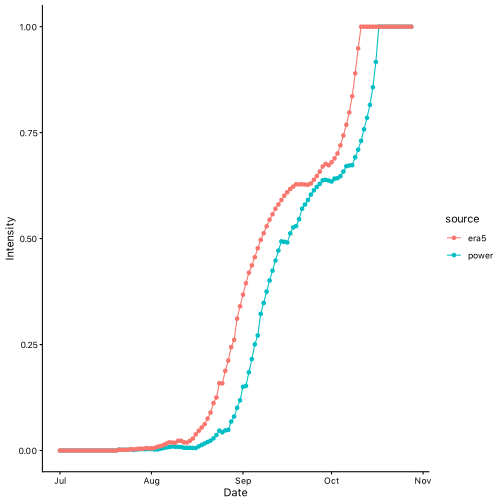
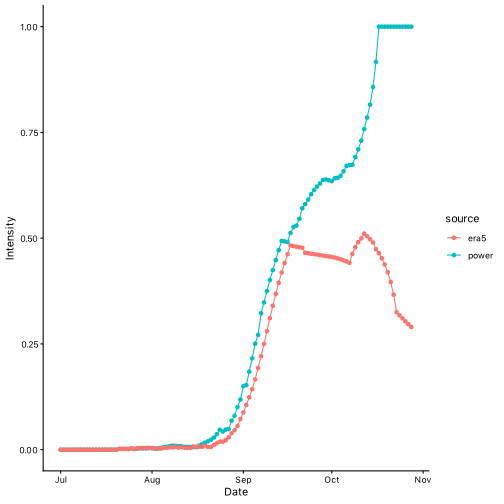
feat: add Open-Meteo citation to README

diff --git a/README.md b/README.md
@@ -68,61 +68,74 @@ names(wth) <- sources
 wth
 #> $power
 #> Key: <YYYYMMDD>
-#>        YYYYMMDD   DOY  TEMP  TMIN  TMAX  RHUM  RAIN     LAT
-#>          <IDat> <int> <num> <num> <num> <num> <num>   <num>
-#>   1: 2000-07-01   183 25.29 23.86 27.78 92.20 23.12 14.6774
-#>   2: 2000-07-02   184 26.13 23.54 29.90 86.01 17.34 14.6774
-#>   3: 2000-07-03   185 25.50 24.28 27.23 94.16 29.08 14.6774
-#>   4: 2000-07-04   186 25.81 24.50 27.56 92.42 13.01 14.6774
-#>   5: 2000-07-05   187 25.97 25.13 27.40 92.34 32.20 14.6774
-#>  ---                                                       
-#> 116: 2000-10-24   298 25.81 23.54 29.72 87.65  2.76 14.6774
-#> 117: 2000-10-25   299 25.82 23.44 29.54 89.76 12.04 14.6774
-#> 118: 2000-10-26   300 25.44 24.14 26.99 94.93 13.03 14.6774
-#> 119: 2000-10-27   301 25.74 24.54 27.69 91.43 11.54 14.6774
-#> 120: 2000-10-28   302 25.44 24.72 26.62 91.90 74.20 14.6774
-#>           LON
-#>         <num>
-#>   1: 121.2556
-#>   2: 121.2556
-#>   3: 121.2556
-#>   4: 121.2556
-#>   5: 121.2556
-#>  ---         
-#> 116: 121.2556
-#> 117: 121.2556
-#> 118: 121.2556
-#> 119: 121.2556
-#> 120: 121.2556
+#>        YYYYMMDD   DOY  TEMP  TMIN  TMAX
+#>          <IDat> <int> <num> <num> <num>
+#>   1: 2000-07-01   183 25.29 23.86 27.78
+#>   2: 2000-07-02   184 26.13 23.54 29.90
+#>   3: 2000-07-03   185 25.50 24.28 27.23
+#>   4: 2000-07-04   186 25.81 24.50 27.56
+#>   5: 2000-07-05   187 25.97 25.13 27.40
+#>  ---                                   
+#> 116: 2000-10-24   298 25.81 23.54 29.72
+#> 117: 2000-10-25   299 25.82 23.44 29.54
+#> 118: 2000-10-26   300 25.44 24.14 26.99
+#> 119: 2000-10-27   301 25.74 24.54 27.69
+#> 120: 2000-10-28   302 25.44 24.72 26.62
+#>       RHUM  RAIN     LAT      LON
+#>      <num> <num>   <num>    <num>
+#>   1: 92.20 23.12 14.6774 121.2556
+#>   2: 86.01 17.34 14.6774 121.2556
+#>   3: 94.16 29.08 14.6774 121.2556
+#>   4: 92.42 13.01 14.6774 121.2556
+#>   5: 92.34 32.20 14.6774 121.2556
+#>  ---                             
+#> 116: 87.65  2.76 14.6774 121.2556
+#> 117: 89.76 12.04 14.6774 121.2556
+#> 118: 94.93 13.03 14.6774 121.2556
+#> 119: 91.43 11.54 14.6774 121.2556
+#> 120: 91.90 74.20 14.6774 121.2556
 #> 
 #> $era5
 #> Key: <YYYYMMDD>
-#>        YYYYMMDD   DOY     TEMP  TMIN  TMAX     RHUM  RAIN   LAT
-#>          <IDat> <int>    <num> <num> <num>    <num> <num> <num>
-#>   1: 2000-07-01   183 25.43750  23.3  29.0 91.95833  28.8 14.75
-#>   2: 2000-07-02   184 24.85000  21.9  28.0 92.45833  27.9 14.75
-#>   3: 2000-07-03   185 23.87083  23.1  25.6 94.91667  43.3 14.75
-#>   4: 2000-07-04   186 23.41250  22.9  24.0 97.29167  96.0 14.75
-#>   5: 2000-07-05   187 24.05833  23.3  24.9 97.04167  86.9 14.75
-#>  ---                                                           
-#> 116: 2000-10-24   298 26.96667  23.3  30.8 82.62500   0.1 14.75
-#> 117: 2000-10-25   299 26.63750  23.1  30.9 83.45833   1.0 14.75
-#> 118: 2000-10-26   300 26.04583  23.8  28.6 86.62500   5.7 14.75
-#> 119: 2000-10-27   301 26.26250  23.9  28.6 87.37500   2.8 14.75
-#> 120: 2000-10-28   302 24.11250  23.2  25.1 93.95833 162.6 14.75
-#>         LON
-#>       <num>
-#>   1: 121.25
-#>   2: 121.25
-#>   3: 121.25
-#>   4: 121.25
-#>   5: 121.25
-#>  ---       
-#> 116: 121.25
-#> 117: 121.25
-#> 118: 121.25
-#> 119: 121.25
-#> 120: 121.25
+#>        YYYYMMDD   DOY     TEMP  TMIN
+#>          <IDat> <int>    <num> <num>
+#>   1: 2000-07-01   183 24.70417  23.2
+#>   2: 2000-07-02   184 24.18333  23.2
+#>   3: 2000-07-03   185 23.72917  22.9
+#>   4: 2000-07-04   186 23.19167  22.8
+#>   5: 2000-07-05   187 23.65833  23.1
+#>  ---                                
+#> 116: 2000-10-24   298 25.76250  23.2
+#> 117: 2000-10-25   299 25.58333  22.9
+#> 118: 2000-10-26   300 25.20000  23.8
+#> 119: 2000-10-27   301 25.27083  23.9
+#> 120: 2000-10-28   302 23.87917  23.2
+#>       TMAX     RHUM  RAIN      LAT
+#>      <num>    <num> <num>    <num>
+#>   1:  27.9 89.25408     0 14.70001
+#>   2:  26.5 90.92118     0 14.70001
+#>   3:  25.8 93.22057     0 14.70001
+#>   4:  23.5 96.14362     0 14.70001
+#>   5:  24.6 95.83372     0 14.70001
+#>  ---                              
+#> 116:  29.2 83.49022     0 14.70001
+#> 117:  29.2 82.53308     0 14.70001
+#> 118:  27.9 85.57829     0 14.70001
+#> 119:  27.2 85.04539     0 14.70001
+#> 120:  24.4 91.54700     0 14.70001
+#>        LON
+#>      <num>
+#>   1: 121.2
+#>   2: 121.2
+#>   3: 121.2
+#>   4: 121.2
+#>   5: 121.2
+#>  ---      
+#> 116: 121.2
+#> 117: 121.2
+#> 118: 121.2
+#> 119: 121.2
+#> 120: 121.2
 ```
 
 ## Modelling bacterial blight disease intensity
@@ -135,86 +148,138 @@ bb_sim <- lapply(X = wth, FUN = bacterial_blight, emergence = "2000-07-01")
 
 bb_sim
 #> $power
-#>      simday      dates    sites latent infectious  removed
-#>       <int>     <IDat>    <num>  <num>      <num>    <num>
-#>   1:      1 2000-07-01 100.0000      0     0.0000    0.000
-#>   2:      2 2000-07-02 108.6875      0     0.0000    0.000
-#>   3:      3 2000-07-03 118.1002      0     0.0000    0.000
-#>   4:      4 2000-07-04 128.2934      0     0.0000    0.000
-#>   5:      5 2000-07-05 139.3254      0     0.0000    0.000
-#>  ---                                                      
-#> 116:    116 2000-10-24   0.0000      0   396.0528 1404.565
-#> 117:    117 2000-10-25   0.0000      0   356.3610 1444.257
-#> 118:    118 2000-10-26   0.0000      0   309.2779 1491.340
-#> 119:    119 2000-10-27   0.0000      0   266.3860 1534.232
-#> 120:    120 2000-10-28   0.0000      0   229.5445 1571.073
-#>         senesced rateinf  rlex rtransfer rremoved  rgrowth
-#>            <num>   <num> <num>     <num>    <num>    <num>
-#>   1:    1.000000       0     0         0  0.00000  9.68750
-#>   2:    2.086875       0     0         0  0.00000 10.49959
-#>   3:    3.267877       0     0         0  0.00000 11.37416
-#>   4:    4.550811       0     0         0  0.00000 12.31499
-#>   5:    5.944065       0     0         0  0.00000 13.32593
-#>  ---                                                      
-#> 116: 2665.037553       0     0         0 43.67864  0.00000
-#> 117: 2712.120592       0     0         0 39.69181  0.00000
-#> 118: 2755.012575       0     0         0 47.08304  0.00000
-#> 119: 2791.854071       0     0         0 42.89198  0.00000
-#> 120: 2824.358958       0     0         0 36.84150  0.00000
-#>      rsenesced diseased intensity     lat      lon
-#>          <num>    <num>     <num>   <num>    <num>
-#>   1:  1.000000    0.000         0 14.6774 121.2556
-#>   2:  1.086875    0.000         0 14.6774 121.2556
-#>   3:  1.181002    0.000         0 14.6774 121.2556
-#>   4:  1.282934    0.000         0 14.6774 121.2556
-#>   5:  1.393254    0.000         0 14.6774 121.2556
-#>  ---                                              
-#> 116: 39.691810 1800.618         1 14.6774 121.2556
-#> 117: 47.083039 1800.618         1 14.6774 121.2556
-#> 118: 42.891982 1800.618         1 14.6774 121.2556
-#> 119: 36.841497 1800.618         1 14.6774 121.2556
-#> 120: 32.504887 1800.618         1 14.6774 121.2556
+#>      simday      dates    sites latent
+#>       <int>     <IDat>    <num>  <num>
+#>   1:      1 2000-07-01 100.0000      0
+#>   2:      2 2000-07-02 108.6875      0
+#>   3:      3 2000-07-03 118.1002      0
+#>   4:      4 2000-07-04 128.2934      0
+#>   5:      5 2000-07-05 139.3254      0
+#>  ---                                  
+#> 116:    116 2000-10-24   0.0000      0
+#> 117:    117 2000-10-25   0.0000      0
+#> 118:    118 2000-10-26   0.0000      0
+#> 119:    119 2000-10-27   0.0000      0
+#> 120:    120 2000-10-28   0.0000      0
+#>      infectious  removed    senesced
+#>           <num>    <num>       <num>
+#>   1:     0.0000    0.000    1.000000
+#>   2:     0.0000    0.000    2.086875
+#>   3:     0.0000    0.000    3.267877
+#>   4:     0.0000    0.000    4.550811
+#>   5:     0.0000    0.000    5.944065
+#>  ---                                
+#> 116:   396.0528 1404.565 2665.037553
+#> 117:   356.3610 1444.257 2712.120592
+#> 118:   309.2779 1491.340 2755.012575
+#> 119:   266.3860 1534.232 2791.854071
+#> 120:   229.5445 1571.073 2824.358958
+#>      rateinf  rlex rtransfer rremoved
+#>        <num> <num>     <num>    <num>
+#>   1:       0     0         0  0.00000
+#>   2:       0     0         0  0.00000
+#>   3:       0     0         0  0.00000
+#>   4:       0     0         0  0.00000
+#>   5:       0     0         0  0.00000
+#>  ---                                 
+#> 116:       0     0         0 43.67864
+#> 117:       0     0         0 39.69181
+#> 118:       0     0         0 47.08304
+#> 119:       0     0         0 42.89198
+#> 120:       0     0         0 36.84150
+#>       rgrowth rsenesced diseased
+#>         <num>     <num>    <num>
+#>   1:  9.68750  1.000000    0.000
+#>   2: 10.49959  1.086875    0.000
+#>   3: 11.37416  1.181002    0.000
+#>   4: 12.31499  1.282934    0.000
+#>   5: 13.32593  1.393254    0.000
+#>  ---                            
+#> 116:  0.00000 39.691810 1800.618
+#> 117:  0.00000 47.083039 1800.618
+#> 118:  0.00000 42.891982 1800.618
+#> 119:  0.00000 36.841497 1800.618
+#> 120:  0.00000 32.504887 1800.618
+#>      intensity     lat      lon
+#>          <num>   <num>    <num>
+#>   1:         0 14.6774 121.2556
+#>   2:         0 14.6774 121.2556
+#>   3:         0 14.6774 121.2556
+#>   4:         0 14.6774 121.2556
+#>   5:         0 14.6774 121.2556
+#>  ---                           
+#> 116:         1 14.6774 121.2556
+#> 117:         1 14.6774 121.2556
+#> 118:         1 14.6774 121.2556
+#> 119:         1 14.6774 121.2556
+#> 120:         1 14.6774 121.2556
 #> 
 #> $era5
-#>      simday      dates    sites latent infectious  removed
-#>       <int>     <IDat>    <num>  <num>      <num>    <num>
-#>   1:      1 2000-07-01 100.0000      0    0.00000    0.000
-#>   2:      2 2000-07-02 108.6875      0    0.00000    0.000
-#>   3:      3 2000-07-03 118.1002      0    0.00000    0.000
-#>   4:      4 2000-07-04 128.2934      0    0.00000    0.000
-#>   5:      5 2000-07-05 139.3254      0    0.00000    0.000
-#>  ---                                                      
-#> 116:    116 2000-10-24   0.0000      0   95.67886 1642.141
-#> 117:    117 2000-10-25   0.0000      0   77.09091 1660.729
-#> 118:    118 2000-10-26   0.0000      0   77.09091 1660.729
-#> 119:    119 2000-10-27   0.0000      0   77.09091 1660.729
-#> 120:    120 2000-10-28   0.0000      0   77.09091 1660.729
-#>         senesced rateinf  rlex rtransfer rremoved  rgrowth
-#>            <num>   <num> <num>     <num>    <num>    <num>
-#>   1:    1.000000       0     0         0  0.00000  9.68750
-#>   2:    2.086875       0     0         0  0.00000 10.49959
-#>   3:    3.267877       0     0         0  0.00000 11.37416
-#>   4:    4.550811       0     0         0  0.00000 12.31499
-#>   5:    5.944065       0     0         0  0.00000 13.32593
-#>  ---                                                      
-#> 116: 2664.640605       0     0         0 20.45989  0.00000
-#> 117: 2664.640605       0     0         0 18.58794  0.00000
-#> 118: 2664.640605       0     0         0  0.00000  0.00000
-#> 119: 2664.640605       0     0         0  0.00000  0.00000
-#> 120: 2664.640605       0     0         0  0.00000  0.00000
-#>      rsenesced diseased intensity   lat    lon
-#>          <num>    <num>     <num> <num>  <num>
-#>   1:  1.000000     0.00         0 14.75 121.25
-#>   2:  1.086875     0.00         0 14.75 121.25
-#>   3:  1.181002     0.00         0 14.75 121.25
-#>   4:  1.282934     0.00         0 14.75 121.25
-#>   5:  1.393254     0.00         0 14.75 121.25
-#>  ---                                          
-#> 116: 18.587944  1737.82         1 14.75 121.25
-#> 117:  0.000000  1737.82         1 14.75 121.25
-#> 118:  0.000000  1737.82         1 14.75 121.25
-#> 119:  0.000000  1737.82         1 14.75 121.25
-#> 120:  0.000000  1737.82         1 14.75 121.25
+#>      simday      dates    sites latent
+#>       <int>     <IDat>    <num>  <num>
+#>   1:      1 2000-07-01 100.0000      0
+#>   2:      2 2000-07-02 108.6875      0
+#>   3:      3 2000-07-03 118.1002      0
+#>   4:      4 2000-07-04 128.2934      0
+#>   5:      5 2000-07-05 139.3254      0
+#>  ---                                  
+#> 116:    116 2000-10-24 349.0799      0
+#> 117:    117 2000-10-25 360.9149      0
+#> 118:    118 2000-10-26 373.0178      0
+#> 119:    119 2000-10-27 385.3854      0
+#> 120:    120 2000-10-28 398.0141      0
+#>      infectious  removed    senesced
+#>           <num>    <num>       <num>
+#>   1:     0.0000    0.000    1.000000
+#>   2:     0.0000    0.000    2.086875
+#>   3:     0.0000    0.000    3.267877
+#>   4:     0.0000    0.000    4.550811
+#>   5:     0.0000    0.000    5.944065
+#>  ---                                
+#> 116:   162.5402 1283.464 2729.674908
+#> 117:   162.5402 1283.464 2733.284057
+#> 118:   162.5402 1283.464 2737.014235
+#> 119:   162.5402 1283.464 2740.868088
+#> 120:   162.5402 1283.464 2744.848229
+#>        rateinf  rlex rtransfer rremoved
+#>          <num> <num>     <num>    <num>
+#>   1: 0.0000000     0         0        0
+#>   2: 0.0000000     0         0        0
+#>   3: 0.0000000     0         0        0
+#>   4: 0.0000000     0         0        0
+#>   5: 0.0000000     0         0        0
+#>  ---                                   
+#> 116: 0.0000000     0         0        0
+#> 117: 0.0000000     0         0        0
+#> 118: 0.0000000     0         0        0
+#> 119: 0.0000000     0         0        0
+#> 120: 0.2580636     0         0        0
+#>       rgrowth rsenesced diseased
+#>         <num>     <num>    <num>
+#>   1:  9.68750  1.000000    0.000
+#>   2: 10.49959  1.086875    0.000
+#>   3: 11.37416  1.181002    0.000
+#>   4: 12.31499  1.282934    0.000
+#>   5: 13.32593  1.393254    0.000
+#>  ---                            
+#> 116: 15.32587  3.490799 1446.005
+#> 117: 15.71198  3.609149 1446.005
+#> 118: 16.09779  3.730178 1446.005
+#> 119: 16.48257  3.853854 1446.005
+#> 120: 16.86561  3.980141 1446.005
+#>      intensity      lat   lon
+#>          <num>    <num> <num>
+#>   1: 0.0000000 14.70001 121.2
+#>   2: 0.0000000 14.70001 121.2
+#>   3: 0.0000000 14.70001 121.2
+#>   4: 0.0000000 14.70001 121.2
+#>   5: 0.0000000 14.70001 121.2
+#>  ---                         
+#> 116: 0.3176971 14.70001 121.2
+#> 117: 0.3105142 14.70001 121.2
+#> 118: 0.3034970 14.70001 121.2
+#> 119: 0.2966465 14.70001 121.2
+#> 120: 0.2899634 14.70001 121.2
 ```
 
 Lastly, you can visualise the result of the model run.
@@ -223,6 +288,13 @@ Lastly, you can visualise the result of the model run.
 ``` r
 library(ggplot2)
 library(data.table)
+#> data.table 1.18.6.1 using 4 threads (see ?getDTthreads).  Latest news: r-datatable.com
+#> 
+#> Attaching package: 'data.table'
+#> 
+#> The following object is masked from 'package:base':
+#> 
+#>     %notin%
 
 # use rbindlist from {data.table} to create a single df for plotting
 bb_sim <- rbindlist(bb_sim, idcol = "source")
@@ -306,3 +378,5 @@ Adam Sparks. (2018). nasapower: A NASA POWER Global Meteorology, Surface Solar E
 Jan C Zadoks. (1971). Systems Analysis and the Dynamics of Epidemics. *Phytopathology* 61:600. DOI: [10.1094/Phyto-61-600](https://doi.org/10.1094/Phyto-61-600).
 
 Wallach, Daniel, David Makowski, James W Jones, and François Brun. (2018) *Working with dynamic crop models: methods, tools and examples for agriculture and environment*. Academic Press. DOI: [10.1016/C2016-0-01552-8](https://doi.org/10.1016/C2016-0-01552-8).
+
+Zippenfenig, P. (2023) Open-Meteo.com Weather API. Zenodo. doi: [10.5281/ZENODO.7970649](https://doi.org/10.5281/ZENODO.7970649).
